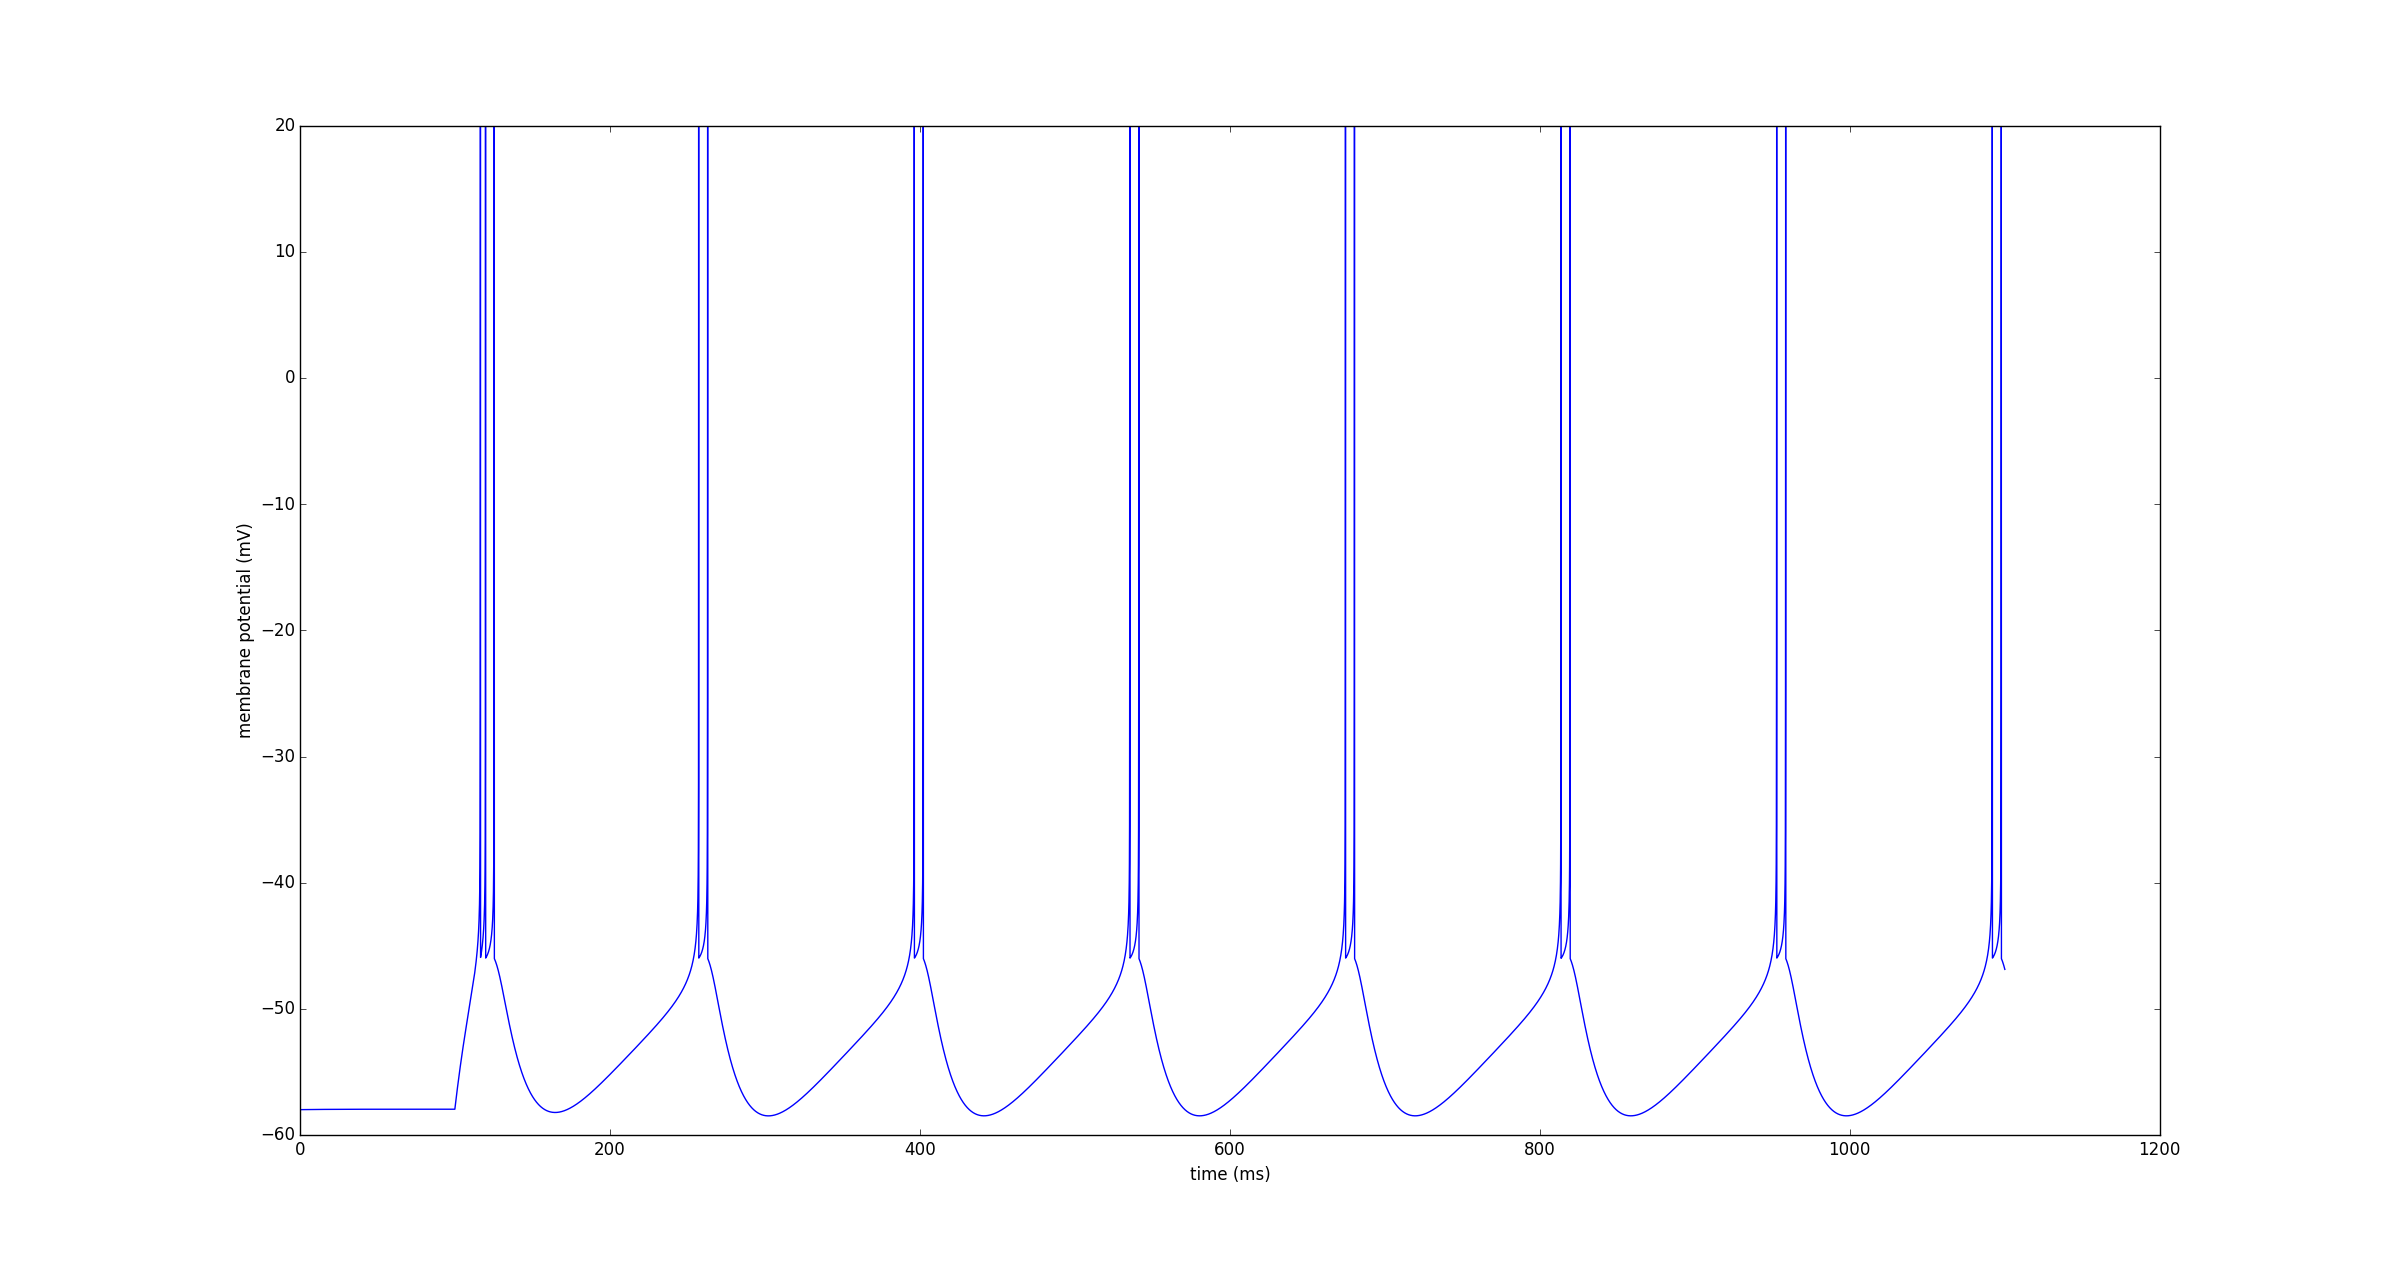
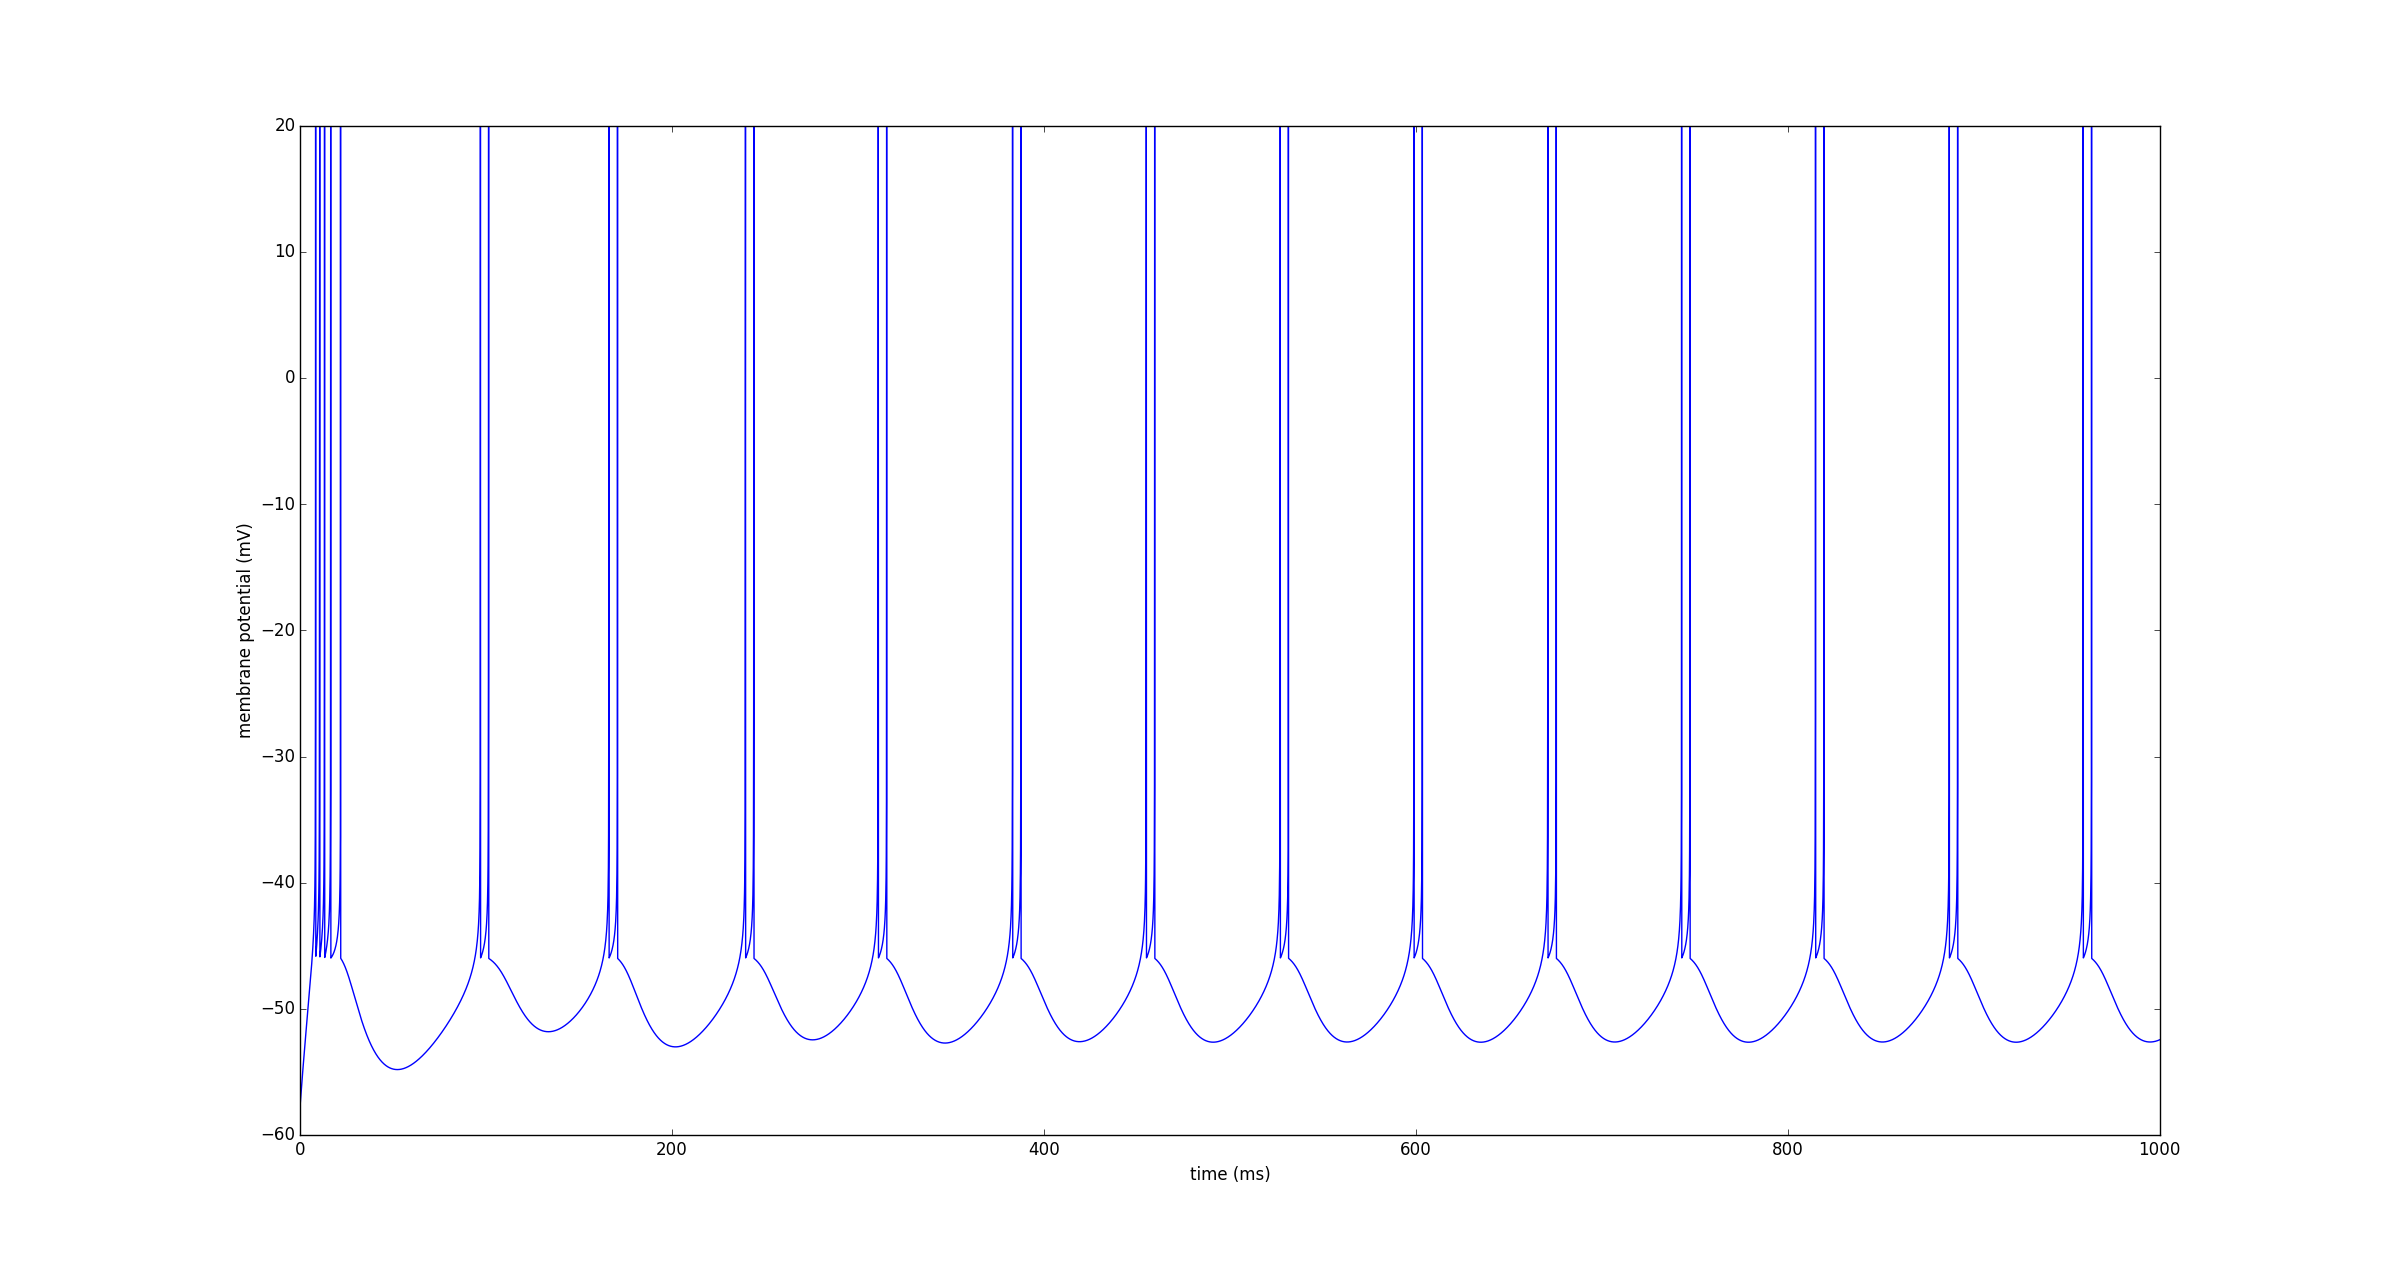
4d is now perfect.

diff --git a/adex.py b/adex.py
@@ -22,16 +22,16 @@
 from brian2 import *
 
 # Parameters
-C = 100 * pF
-gL = 12 * nS
+C = 200 * pF
+gL = 10 * nS
 taum = C / gL
-EL = -60 * mV
+EL = -58 * mV
 VT = -50 * mV
 DeltaT = 2 * mV
 Vcut = 0 * mV
 
 # Pick an electrophysiological behaviour
-tauw, a, b, Vr = 130*ms, -11*nS, 0.03*nA, -48*mV # 4g
+tauw, a, b, Vr = 120*ms, 2*nS, .100*nA, -46*mV
 
 eqs = """
 dvm/dt = (gL*(EL - vm) + gL*DeltaT*exp((vm - VT)/DeltaT) + I - w)/C : volt
@@ -45,7 +45,7 @@ neuron.vm = EL
 trace = StateMonitor(neuron, 'vm', record=0)
 spikes = SpikeMonitor(neuron)
 
-neuron.I = .160*nA
+neuron.I = .400*nA
 run(1000 * ms)
 
 # We draw nicer spikes
